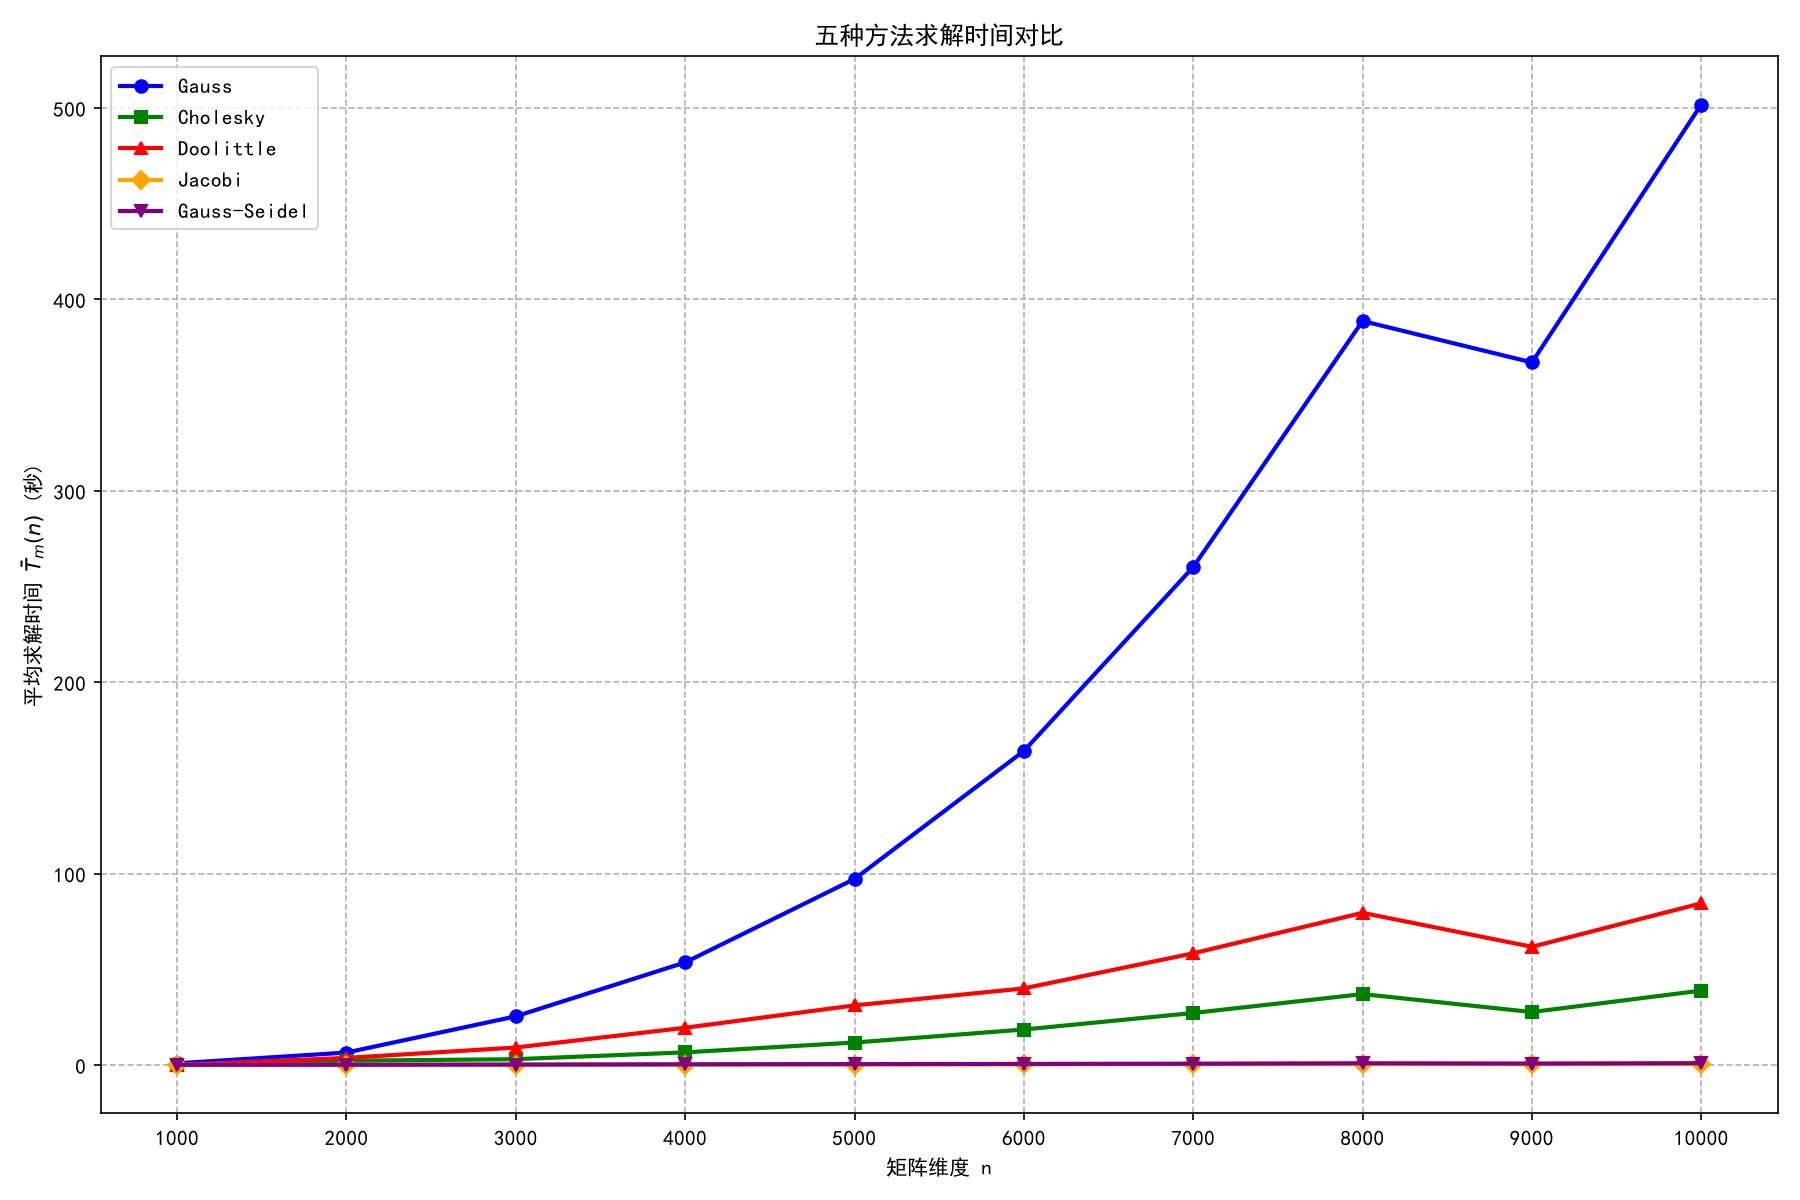
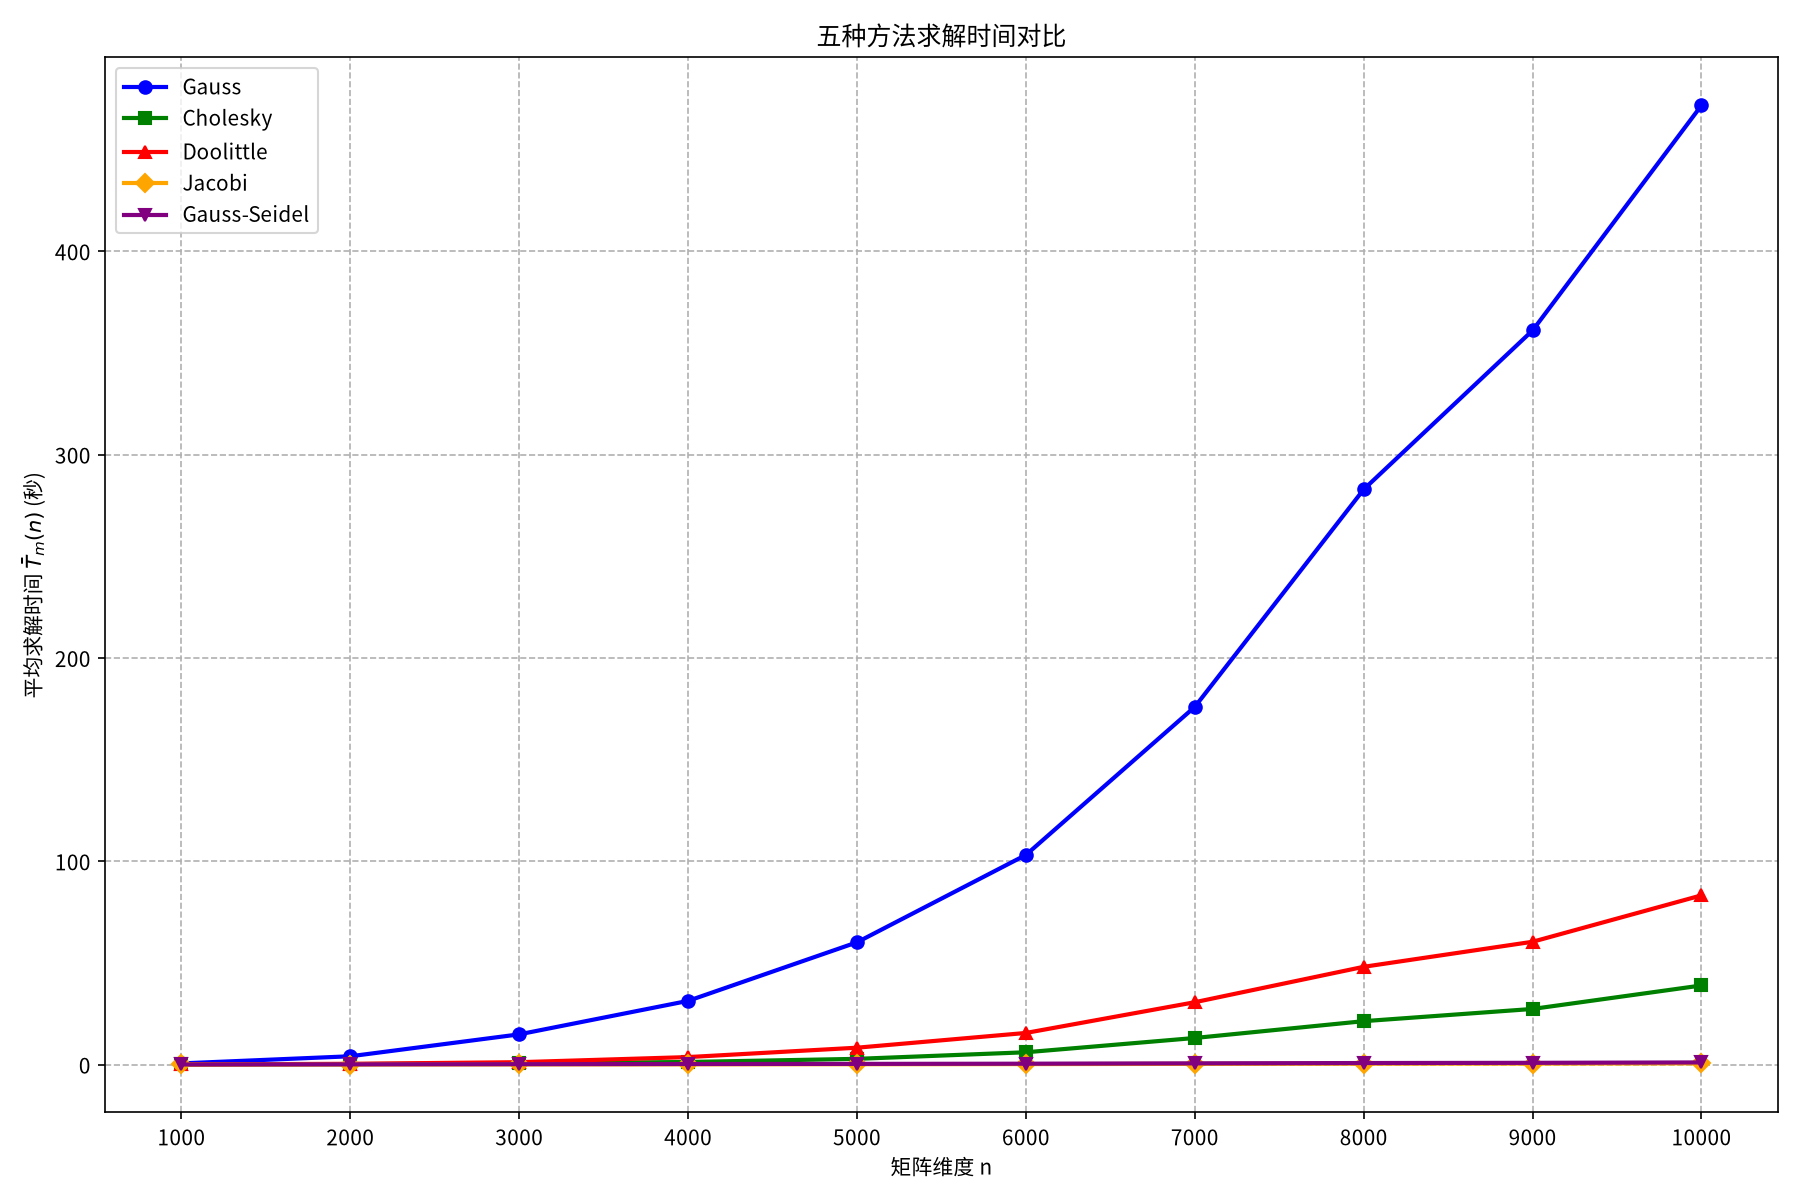
修改之后跑完了

diff --git a/experiment_2/main.py b/experiment_2/main.py
@@ -8,12 +8,17 @@ matplotlib.use('Agg')
 import matplotlib.pyplot as plt
 
 sys.path.insert(0, os.path.join(os.path.dirname(os.path.abspath(__file__)), '..'))
-from solvers import gauss_elim, cholesky_solve, doolittle_solve, jacobi, gauss_seidel
+from solvers import (
+    gauss_elim, cholesky_solve, doolittle_solve, jacobi, gauss_seidel,
+    validate_solution,
+)
 
 RESULT_DIR = os.path.join(os.path.dirname(os.path.abspath(__file__)), 'results')
 os.makedirs(RESULT_DIR, exist_ok=True)
 
-plt.rcParams['font.sans-serif'] = ['SimHei', 'WenQuanYi Zen Hei', 'Arial Unicode MS']
+plt.rcParams['font.sans-serif'] = [
+    'Noto Sans CJK SC', 'SimHei', 'WenQuanYi Zen Hei', 'Arial Unicode MS'
+]
 plt.rcParams['axes.unicode_minus'] = False
 
 
@@ -40,46 +45,60 @@ def main():
              'Gauss-Seidel': {n: [] for n in dimensions}}
     converged = {'Jacobi': {n: [] for n in dimensions},
                  'Gauss-Seidel': {n: [] for n in dimensions}}
+    backward_errors = {m: {n: [] for n in dimensions} for m in methods}
+    solution_valid = {m: {n: [] for n in dimensions} for m in methods}
 
     tol = 1e-10
+    validation_tol = 1e-8
     max_iter = 10000
 
     for n in dimensions:
         print("\n n = %d" % n)
-        problems = [generate_spd_matrix(n, n * 100 + s) for s in range(n_groups)]
 
-        for s, (A, b) in enumerate(problems):
+        for s in range(n_groups):
+            A, b = generate_spd_matrix(n, n * 100 + s)
+
             t0 = time.perf_counter()
-            gauss_elim(A, b)
+            x_gauss = gauss_elim(A, b)
             t_gauss = time.perf_counter() - t0
             times['Gauss'][n].append(t_gauss)
 
             t0 = time.perf_counter()
-            cholesky_solve(A, b)
+            x_chol = cholesky_solve(A, b)
             t_chol = time.perf_counter() - t0
             times['Cholesky'][n].append(t_chol)
 
             t0 = time.perf_counter()
-            doolittle_solve(A, b)
+            x_dool = doolittle_solve(A, b)
             t_dool = time.perf_counter() - t0
             times['Doolittle'][n].append(t_dool)
 
             t0 = time.perf_counter()
-            _, _, conv_j, nit_j = jacobi(A, b, None, tol, max_iter)
+            x_jac, _, conv_j, nit_j = jacobi(A, b, None, tol, max_iter)
             t_jac = time.perf_counter() - t0
             times['Jacobi'][n].append(t_jac)
             iters['Jacobi'][n].append(nit_j)
             converged['Jacobi'][n].append(conv_j)
 
             t0 = time.perf_counter()
-            _, _, conv_g, nit_g = gauss_seidel(A, b, None, tol, max_iter)
+            x_gs, _, conv_g, nit_g = gauss_seidel(A, b, None, tol, max_iter)
             t_gs = time.perf_counter() - t0
             times['Gauss-Seidel'][n].append(t_gs)
             iters['Gauss-Seidel'][n].append(nit_g)
             converged['Gauss-Seidel'][n].append(conv_g)
 
-            print("  group %d: Gauss=%.3f  Chol=%.3f  Dool=%.3f  Jac=%.3f(it=%d)  GS=%.3f(it=%d)" % (
-                s + 1, t_gauss, t_chol, t_dool, t_jac, nit_j, t_gs, nit_g))
+            for method, x in [('Gauss', x_gauss), ('Cholesky', x_chol),
+                              ('Doolittle', x_dool), ('Jacobi', x_jac),
+                              ('Gauss-Seidel', x_gs)]:
+                valid, error = validate_solution(A, b, x, validation_tol)
+                solution_valid[method][n].append(valid)
+                backward_errors[method][n].append(error)
+
+            print("  group %d: Gauss=%.3f  Chol=%.3f  Dool=%.3f  "
+                  "Jac=%.3f(it=%d)  GS=%.3f(it=%d)  valid=%d/%d" % (
+                      s + 1, t_gauss, t_chol, t_dool, t_jac, nit_j, t_gs,
+                      nit_g, sum(solution_valid[m][n][-1] for m in methods),
+                      len(methods)))
 
     # 平均时间
     avg_times = {m: {n: np.mean(times[m][n]) for n in dimensions} for m in methods}
@@ -89,7 +108,9 @@ def main():
         w = csv.writer(f)
         w.writerow(['n', 'group', 'Gauss', 'Cholesky', 'Doolittle',
                      'Jacobi', 'Gauss-Seidel', 'Jacobi_iter', 'GS_iter',
-                     'Jacobi_converged', 'GS_converged'])
+                     'Jacobi_converged', 'GS_converged']
+                    + [m + '_backward_error' for m in methods]
+                    + [m + '_valid' for m in methods])
         for n in dimensions:
             for s in range(n_groups):
                 w.writerow([n, s + 1,
@@ -97,7 +118,9 @@ def main():
                             times['Doolittle'][n][s], times['Jacobi'][n][s],
                             times['Gauss-Seidel'][n][s],
                             iters['Jacobi'][n][s], iters['Gauss-Seidel'][n][s],
-                            converged['Jacobi'][n][s], converged['Gauss-Seidel'][n][s]])
+                            converged['Jacobi'][n][s], converged['Gauss-Seidel'][n][s]]
+                           + [backward_errors[m][n][s] for m in methods]
+                           + [solution_valid[m][n][s] for m in methods])
 
     # 保存平均耗时
     with open(os.path.join(RESULT_DIR, 'average_times.csv'), 'w', newline='') as f:
@@ -145,6 +168,14 @@ def main():
             convs = converged[m][n]
             print("  %s n=%d: %d/%d 收敛, 平均迭代 %d 次" % (
                 m, n, sum(convs), n_groups, np.mean(iters[m][n])))
+
+    print("\n解验证结果 (后向误差阈值 %.1e):" % validation_tol)
+    for m in methods:
+        for n in dimensions:
+            valid_count = sum(solution_valid[m][n])
+            max_error = max(backward_errors[m][n])
+            print("  %s n=%d: %d/%d 通过, 最大后向误差 %.3e" % (
+                m, n, valid_count, n_groups, max_error))
 
     # 打印平均时间表
     print("\n平均求解时间 (秒):")

diff --git a/experiment_1/main.py b/experiment_1/main.py
@@ -7,13 +7,18 @@ matplotlib.use('Agg')
 import matplotlib.pyplot as plt
 
 sys.path.insert(0, os.path.join(os.path.dirname(os.path.abspath(__file__)), '..'))
-from solvers import gauss_elim, cholesky_solve, doolittle_solve, jacobi, gauss_seidel, is_positive_definite
+from solvers import (
+    gauss_elim, cholesky_solve, doolittle_solve, jacobi, gauss_seidel,
+    is_positive_definite, validate_solution,
+)
 
 RESULT_DIR = os.path.join(os.path.dirname(os.path.abspath(__file__)), 'results')
 os.makedirs(RESULT_DIR, exist_ok=True)
 
 # 设置中文字体
-plt.rcParams['font.sans-serif'] = ['SimHei', 'WenQuanYi Zen Hei', 'Arial Unicode MS']
+plt.rcParams['font.sans-serif'] = [
+    'Noto Sans CJK SC', 'SimHei', 'WenQuanYi Zen Hei', 'Arial Unicode MS'
+]
 plt.rcParams['axes.unicode_minus'] = False
 
 
@@ -40,10 +45,16 @@ def main():
     x_gauss = gauss_elim(A, b)
     x_chol = cholesky_solve(A, b)
     x_dool = doolittle_solve(A, b)
+    direct_solutions = [('Gauss', x_gauss), ('Cholesky', x_chol),
+                        ('Doolittle', x_dool)]
+    direct_validation = {
+        name: validate_solution(A, b, x) for name, x in direct_solutions
+    }
 
     print("\n高斯消去法: x =", x_gauss, " 误差 =", np.linalg.norm(x_gauss - x_star))
     print("Cholesky分解: x =", x_chol, " 误差 =", np.linalg.norm(x_chol - x_star))
     print("Doolittle分解: x =", x_dool, " 误差 =", np.linalg.norm(x_dool - x_star))
+    print("直接法解验证 (通过, 后向误差):", direct_validation)
 
     # 迭代法
     tol = 1e-10
@@ -51,29 +62,40 @@ def main():
 
     x_jac, hist_jac, conv_jac, n_jac = jacobi(A, b, x0, tol, max_iter, x_star)
     x_gs, hist_gs, conv_gs, n_gs = gauss_seidel(A, b, x0, tol, max_iter, x_star)
+    iter_validation = {
+        'Jacobi': validate_solution(A, b, x_jac),
+        'Gauss-Seidel': validate_solution(A, b, x_gs),
+    }
 
     print("\nJacobi迭代: 收敛=%s, 次数=%d" % (conv_jac, n_jac))
     print("  最终解 x =", x_jac)
     print("  残差 =", hist_jac[-1][2], " 误差 =", hist_jac[-1][3])
+    print("  解验证 (通过, 后向误差) =", iter_validation['Jacobi'])
 
     print("\nGauss-Seidel迭代: 收敛=%s, 次数=%d" % (conv_gs, n_gs))
     print("  最终解 x =", x_gs)
     print("  残差 =", hist_gs[-1][2], " 误差 =", hist_gs[-1][3])
+    print("  解验证 (通过, 后向误差) =", iter_validation['Gauss-Seidel'])
 
     # 保存直接法结果
     with open(os.path.join(RESULT_DIR, 'direct_methods_results.csv'), 'w', newline='') as f:
         w = csv.writer(f)
-        w.writerow(['method', 'x1', 'x2', 'x3', 'x4', 'x5', 'x6', 'x7', 'error'])
-        for name, xs in [('Gauss', x_gauss), ('Cholesky', x_chol), ('Doolittle', x_dool)]:
-            w.writerow([name] + list(xs) + [np.linalg.norm(xs - x_star)])
+        w.writerow(['method', 'x1', 'x2', 'x3', 'x4', 'x5', 'x6', 'x7',
+                    'error', 'backward_error', 'valid'])
+        for name, xs in direct_solutions:
+            valid, backward_error = direct_validation[name]
+            w.writerow([name] + list(xs) + [np.linalg.norm(xs - x_star),
+                                            backward_error, valid])
 
     # 保存迭代历史
     for name, hist in [('jacobi', hist_jac), ('gauss_seidel', hist_gs)]:
         with open(os.path.join(RESULT_DIR, name + '_history.csv'), 'w', newline='') as f:
             w = csv.writer(f)
-            w.writerow(['k', 'x1', 'x2', 'x3', 'x4', 'x5', 'x6', 'x7', 'residual', 'error'])
+            w.writerow(['k', 'x1', 'x2', 'x3', 'x4', 'x5', 'x6', 'x7',
+                        'residual', 'error', 'backward_error', 'valid'])
             for k, xk, res, err in hist:
-                w.writerow([k] + list(xk) + [res, err])
+                valid, backward_error = validate_solution(A, b, xk)
+                w.writerow([k] + list(xk) + [res, err, backward_error, valid])
 
     # 画误差曲线
     fig, ax = plt.subplots(figsize=(10, 7))

diff --git a/solvers.py b/solvers.py
@@ -1,6 +1,31 @@
 import numpy as np
 
 
+def validate_solution(A, b, x, tol=1e-8):
+    A = np.asarray(A, dtype=np.float64)
+    b = np.asarray(b, dtype=np.float64)
+    x = np.asarray(x, dtype=np.float64)
+
+    if A.ndim != 2 or A.shape[0] != A.shape[1] or A.shape[0] == 0:
+        raise ValueError("A must be a square matrix")
+    n = A.shape[0]
+    if b.shape != (n,):
+        raise ValueError("b must be a vector matching A")
+    if not np.isfinite(tol) or tol < 0:
+        raise ValueError("tol must be finite and non-negative")
+    if not np.all(np.isfinite(A)) or not np.all(np.isfinite(b)):
+        raise ValueError("A and b must contain only finite values")
+    if x.shape != (n,) or not np.all(np.isfinite(x)):
+        return False, float('inf')
+
+    residual_norm = np.linalg.norm(A @ x - b, ord=np.inf)
+    scale = (np.linalg.norm(A, ord=np.inf) * np.linalg.norm(x, ord=np.inf)
+             + np.linalg.norm(b, ord=np.inf))
+    backward_error = residual_norm / scale if scale else residual_norm
+    valid = np.isfinite(backward_error) and backward_error <= tol
+    return bool(valid), float(backward_error)
+
+
 def forward_sub(L, b):
     L = np.asarray(L, dtype=np.float64)
     b = np.asarray(b, dtype=np.float64)
@@ -80,6 +105,8 @@ def gauss_elim(A, b):
         if pivot != k:
             A[[k, pivot]] = A[[pivot, k]]
             b[[k, pivot]] = b[[pivot, k]]
+        if A[k, k] == 0:
+            raise np.linalg.LinAlgError("Matrix is singular")
         factors = A[k + 1:, k] / A[k, k]
         A[k + 1:, k:] -= np.outer(factors, A[k, k:])
         b[k + 1:] -= factors * b[k]
@@ -102,16 +129,20 @@ def is_positive_definite(A):
 
 
 def cholesky_solve(A, b):
-    n = len(b)
     A = np.array(A, dtype=np.float64).copy()
     b = np.array(b, dtype=np.float64).copy()
 
-    if not is_positive_definite(A):
+    if A.ndim != 2 or A.shape[0] != A.shape[1]:
+        raise ValueError("A must be a square matrix")
+    if not np.allclose(A, A.T):
         raise np.linalg.LinAlgError("A is not symmetric positive definite")
 
+    n = A.shape[0]
     L = np.zeros((n, n))
     for j in range(n):
         s = A[j, j] - L[j, :j] @ L[j, :j]
+        if not np.isfinite(s) or s <= 0:
+            raise np.linalg.LinAlgError("A is not symmetric positive definite")
         L[j, j] = np.sqrt(s)
         L[j + 1:, j] = (A[j + 1:, j] - L[j + 1:, :j] @ L[j, :j]) / L[j, j]
 
@@ -130,6 +161,10 @@ def doolittle_solve(A, b):
     for k in range(n):
         U[k, k:] = A[k, k:] - L[k, :k] @ U[:k, k:]
         if k < n - 1:
+            if U[k, k] == 0:
+                raise np.linalg.LinAlgError(
+                    "Zero pivot in Doolittle decomposition; pivoting is required"
+                )
             L[k + 1:, k] = (A[k + 1:, k] - L[k + 1:, :k] @ U[:k, k]) / U[k, k]
 
     z = forward_sub(L, b)
@@ -144,6 +179,8 @@ def jacobi(A, b, x0=None, tol=1e-10, max_iter=10000, x_star=None):
     x = np.zeros(n) if x0 is None else np.array(x0, dtype=np.float64).copy()
 
     D = np.diag(A).copy()
+    if np.any(D == 0):
+        raise np.linalg.LinAlgError("Jacobi iteration requires non-zero diagonal entries")
     R = A - np.diag(D)
     b_norm = np.linalg.norm(b)
     history = []
@@ -158,7 +195,7 @@ def jacobi(A, b, x0=None, tol=1e-10, max_iter=10000, x_star=None):
         history.append((k, x_new.copy(), res_norm, err))
         x = x_new
         n_iter = k + 1
-        if res_norm / b_norm <= tol:
+        if res_norm <= tol * b_norm:
             converged = True
             break
 
@@ -186,7 +223,7 @@ def gauss_seidel(A, b, x0=None, tol=1e-10, max_iter=10000, x_star=None):
         history.append((k, x_new.copy(), res_norm, err))
         x = x_new
         n_iter = k + 1
-        if res_norm / b_norm <= tol:
+        if res_norm <= tol * b_norm:
             converged = True
             break
 
